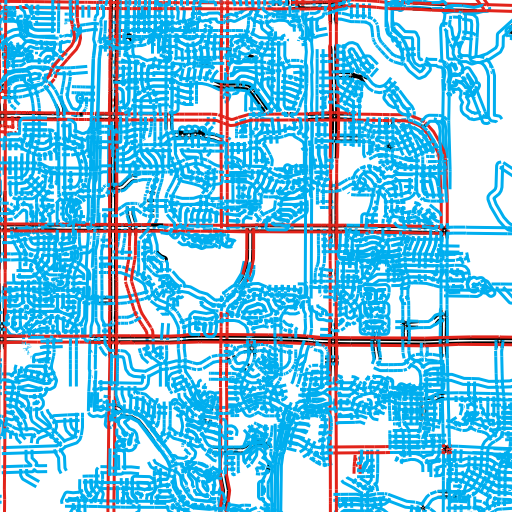
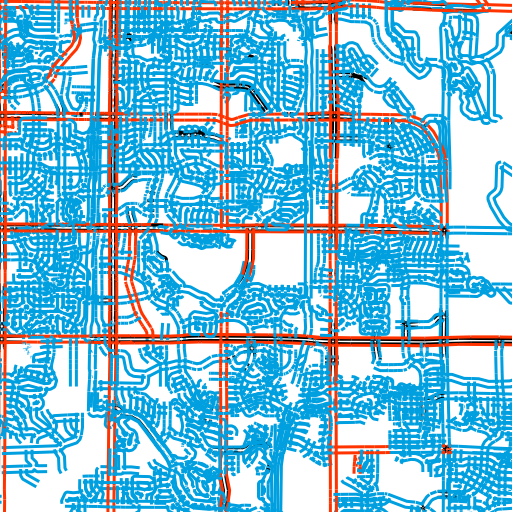
Update tile styles for ways and census blocks layers

diff --git a/src/angularjs/src/app/components/map/map.constants.js b/src/angularjs/src/app/components/map/map.constants.js
@@ -33,7 +33,7 @@
     legends: {
         census_blocks: {
             position: 'bottomright',
-            colors: ['#e2231a', '#c92433', '#b1264d', '#982766', '#802980', '#664396', '#4c5eac', '#3378c2', '#1993d8', '#00aeef'],
+            colors: ['#FF3300', '#D04628', '#B9503C', '#A25A51', '#8B6465', '#736D79', '#5C778D', '#4581A2', '#2E8BB6', '#009FDF'],
             labels: ['0 - 6', '6 - 12', '12 - 18', '18 - 24', '24 - 30', '30 - 36', '36 - 42', '42 - 48', '48 - 54', '54 - 100'],
             title: 'BNA Score'
         },
@@ -45,7 +45,7 @@
         },
         ways: {
             position: 'bottomright',
-            colors: ['#00aeef', '#e2231a'],
+            colors: ['#009fdf', '#ff3300'],
             labels: ['Low Stress', 'High Stress']
         }
     }
